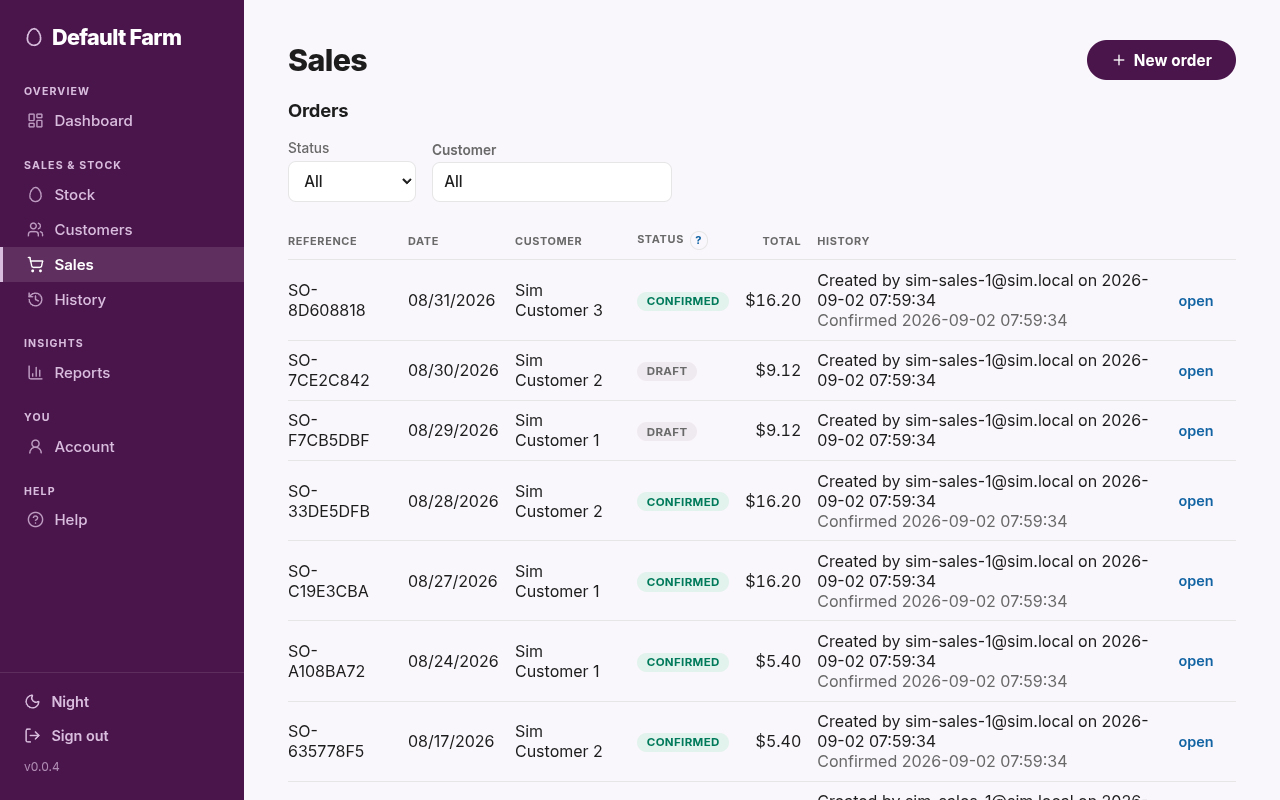
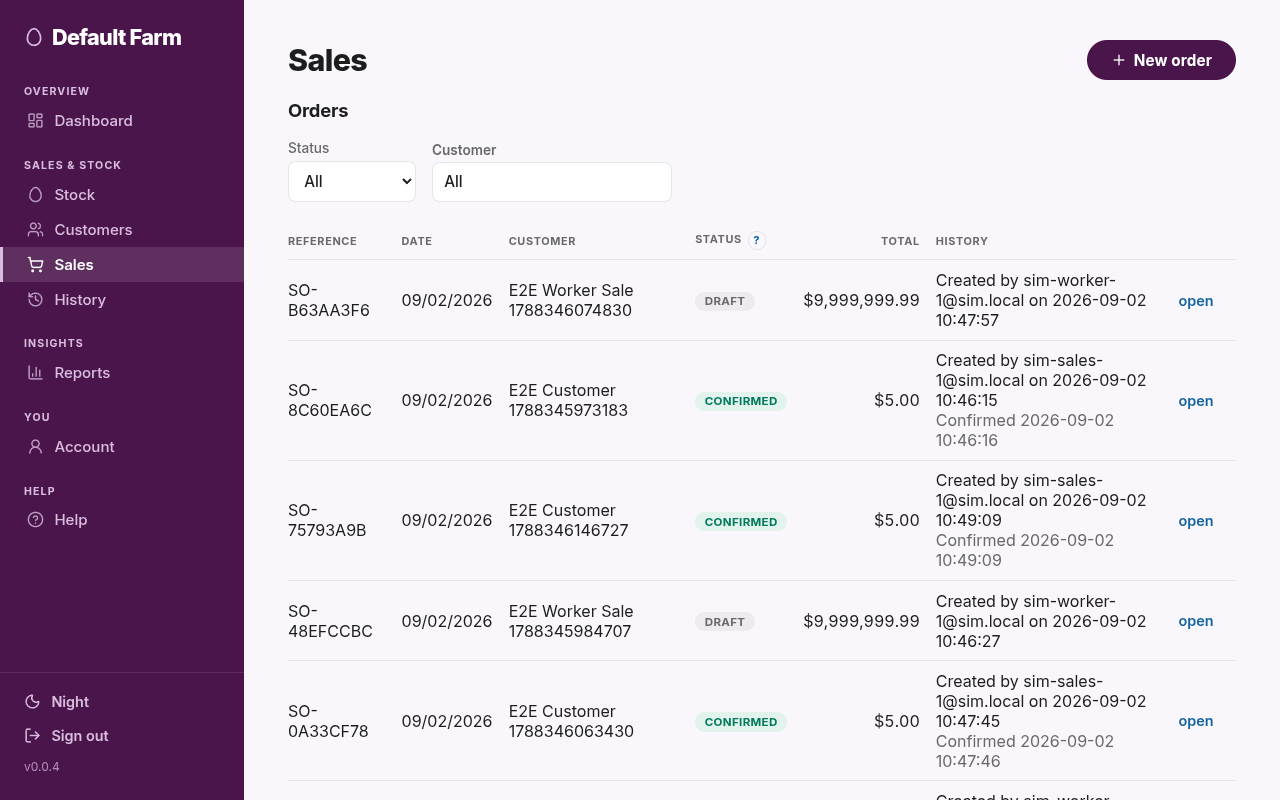
docs: add the dashboard to the README screenshots (#654)

diff --git a/tools/simulation/ui/specs-screenshots/screenshots.spec.ts b/tools/simulation/ui/specs-screenshots/screenshots.spec.ts
@@ -62,15 +62,49 @@ async function capture(page: Page, name: string): Promise<void> {
 }
 
 test.describe("README screenshots", () => {
-  // ================== WHY THERE IS NO DASHBOARD SHOT ==================
+  // ================== THE DASHBOARD SHOT (#654) ==================
   //
-  // The obvious hero image is the Dashboard, and it was captured first. Its
-  // "Today" panel is EMPTY in every fixture capture — the simulation seeds
-  // history up to a few days back, so both flocks read "no entry" and "eggs
-  // collected today" is 0. True of the fixture, misleading about the product,
-  // and unfixable from here without the capture writing today's entries into
-  // the shared database. The three screens below each evidence a specific
-  // claim the README makes, with data.
+  // #549 left the Dashboard out because its Today panel was empty in every
+  // fixture capture. Since #654 that emptiness IS the feature: a house with
+  // no entry is the alarm state the screen exists to show, so the tiles are
+  // captured as the fixture leaves them — twelve "no entry" tiles and the
+  // "N more flocks" link (the fixture seeds ~100 active flocks for the picker
+  // catalog, #627). One fixture artefact remains and is accepted: the seeder
+  // keeps the last two days per flock as Draft (SimulationDataSeeder.
+  // DraftWindowDays), so the 14-day line ends in two zero points — true of
+  // the fixture, not of the product.
+
+  test("dashboard — the morning view: capture status, the fortnight, stock by grade", async ({ page, signIn }) => {
+    await signIn(castMember("Manager"));
+    await page.goto("/");
+
+    // The page has ONE loading gate over six reads (Promise.allSettled), so
+    // nothing below renders half-loaded — but every panel degrades on its own
+    // failed read, so an errored panel would be photographed as if it were
+    // the product. Assert the absence of both error texts first.
+    await expect(page.getByText(tEn("dashboard:loadFailed"))).toHaveCount(0);
+    await expect(page.getByText(tEn("dashboard:panelLoadError"))).toHaveCount(0);
+
+    // Tiles: at least one rendered. Class locator — the tile's accessible
+    // name interpolates a flock name this spec does not know.
+    await expect(page.locator(".capture-tile").first()).toBeVisible();
+
+    // Trend: the sparkline is there AND not flat — the fixture seeds 90 days
+    // of production, so a flat line means the report did not arrive.
+    const line = page.locator("svg.sparkline");
+    await expect(line).toBeVisible();
+    const ys = (await line.locator("polyline").getAttribute("points"))!.split(" ").map((p) => p.split(",")[1]);
+    expect(new Set(ys).size).toBeGreaterThan(1);
+
+    // Stock: at least one segment on the bar.
+    await expect(page.locator(".meter-stack > span").first()).toBeVisible();
+
+    // Sales: a Manager sees the panel and the fixture has orders — scoped to
+    // the sales list, never the shell's own list items.
+    await expect(page.locator(".dash-list li").first()).toBeVisible();
+
+    await capture(page, "dashboard.png");
+  });
 
   test("daily entry — a recorded day, by grade", async ({ page, signIn, farm }) => {
     await signIn(castMember("Manager"));

diff --git a/tools/simulation/ui/README.md b/tools/simulation/ui/README.md
@@ -12,15 +12,14 @@ Two modes:
 | --- | --- | --- |
 | **Smoke** (#385) | Key flow per persona + cross-cutting session/i18n/PWA guarantees | `npm test` |
 | **Canary** (#386) | 1–2 browsers recording Core Web Vitals, optionally while k6 loads the backend | `bash run-canary.sh [--with-load]` |
-| **Screenshots** (#549) | Captures the root README's three images into `docs/images/` | `npm run screenshots` |
+| **Screenshots** (#549) | Captures the root README's four images into `docs/images/` | `npm run screenshots` |
 
 **Screenshots are a third config on purpose.** That run WRITES FILES into the
 repo, so folding it into `npm test` would rewrite committed images on every
 smoke run and turn an unrelated green run into a dirty working tree. It is not
 visual regression either — nothing asserts on pixels, and no gate checks the
 images are current. See the header of `specs-screenshots/screenshots.spec.ts`
-for the staleness contract and for why the Dashboard is deliberately not among
-them.
+for the staleness contract and for the fixture caveat on the Dashboard capture.
 
 **Playwright is never the load generator.** k6 stays the crowd.
 

diff --git a/README.md b/README.md
@@ -84,6 +84,11 @@ fails: [first admin provisioning](docs/runbooks/first-admin-provisioning.md).
 
 ## More of it
 
+The morning view — which houses still need today's entry, the fortnight's
+trend with hen-day %, and stock by grade:
+
+![The dashboard: one tile per flock showing today's eggs or a "no entry" alarm, a 14-day eggs sparkline captioned with hen-day percent and its change, a stacked stock bar by grade, and recent sales](docs/images/dashboard.png)
+
 Sales orders through their lifecycle — draft, confirmed, with who did what and
 when against each one:
 
